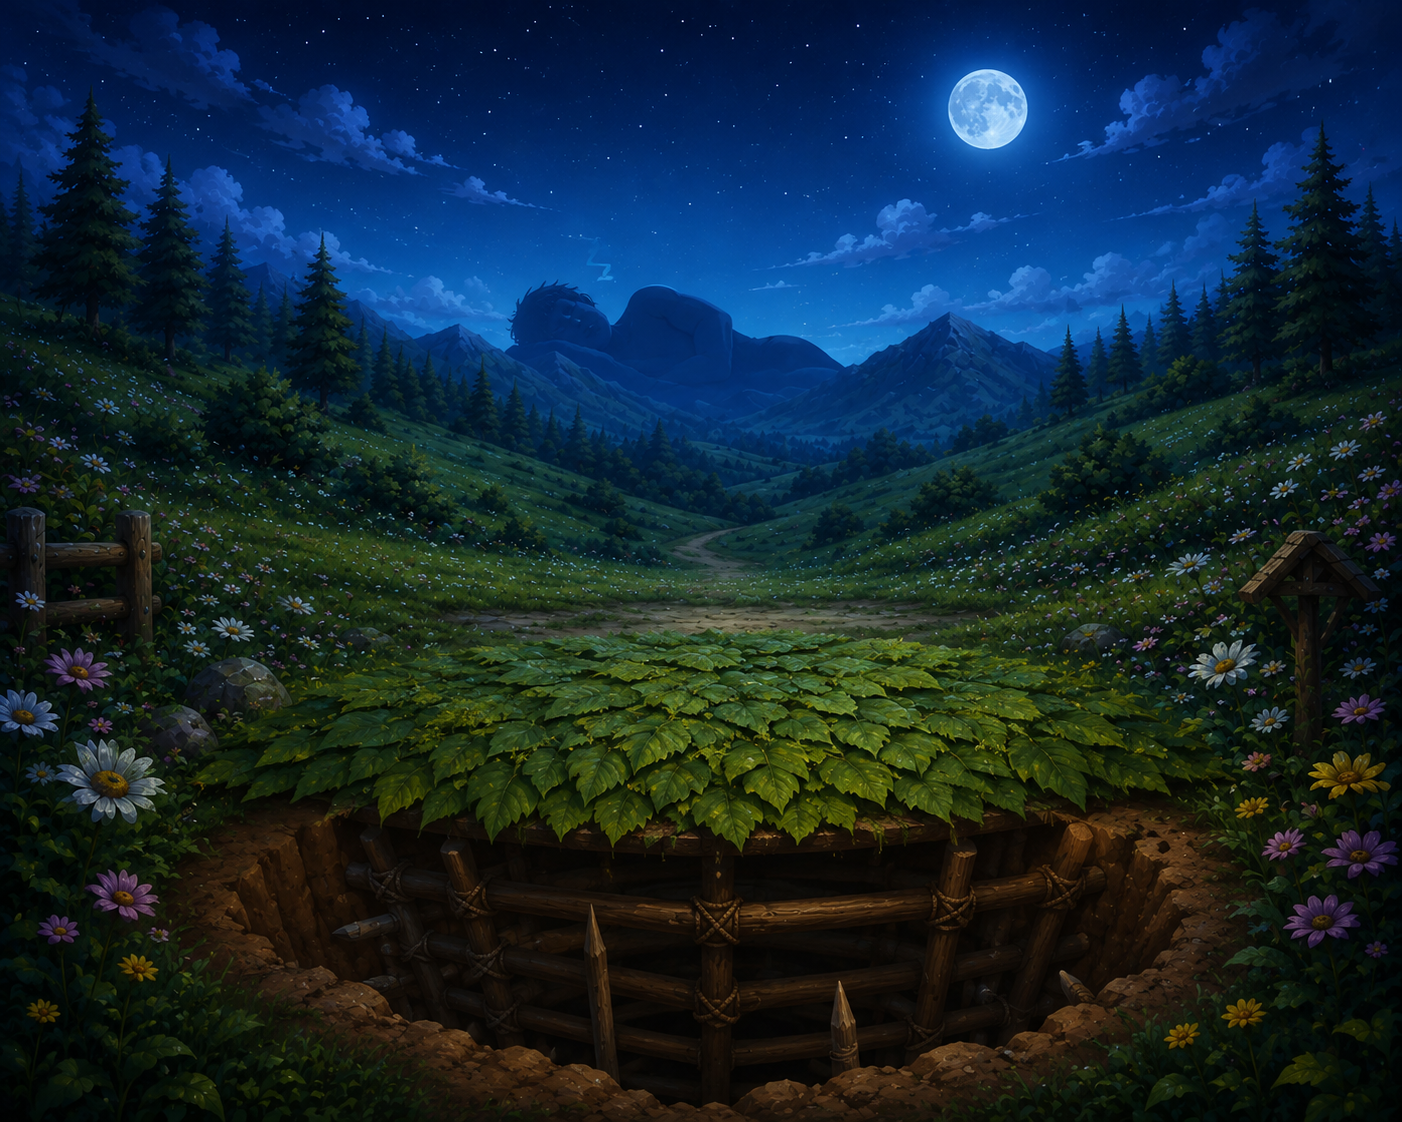
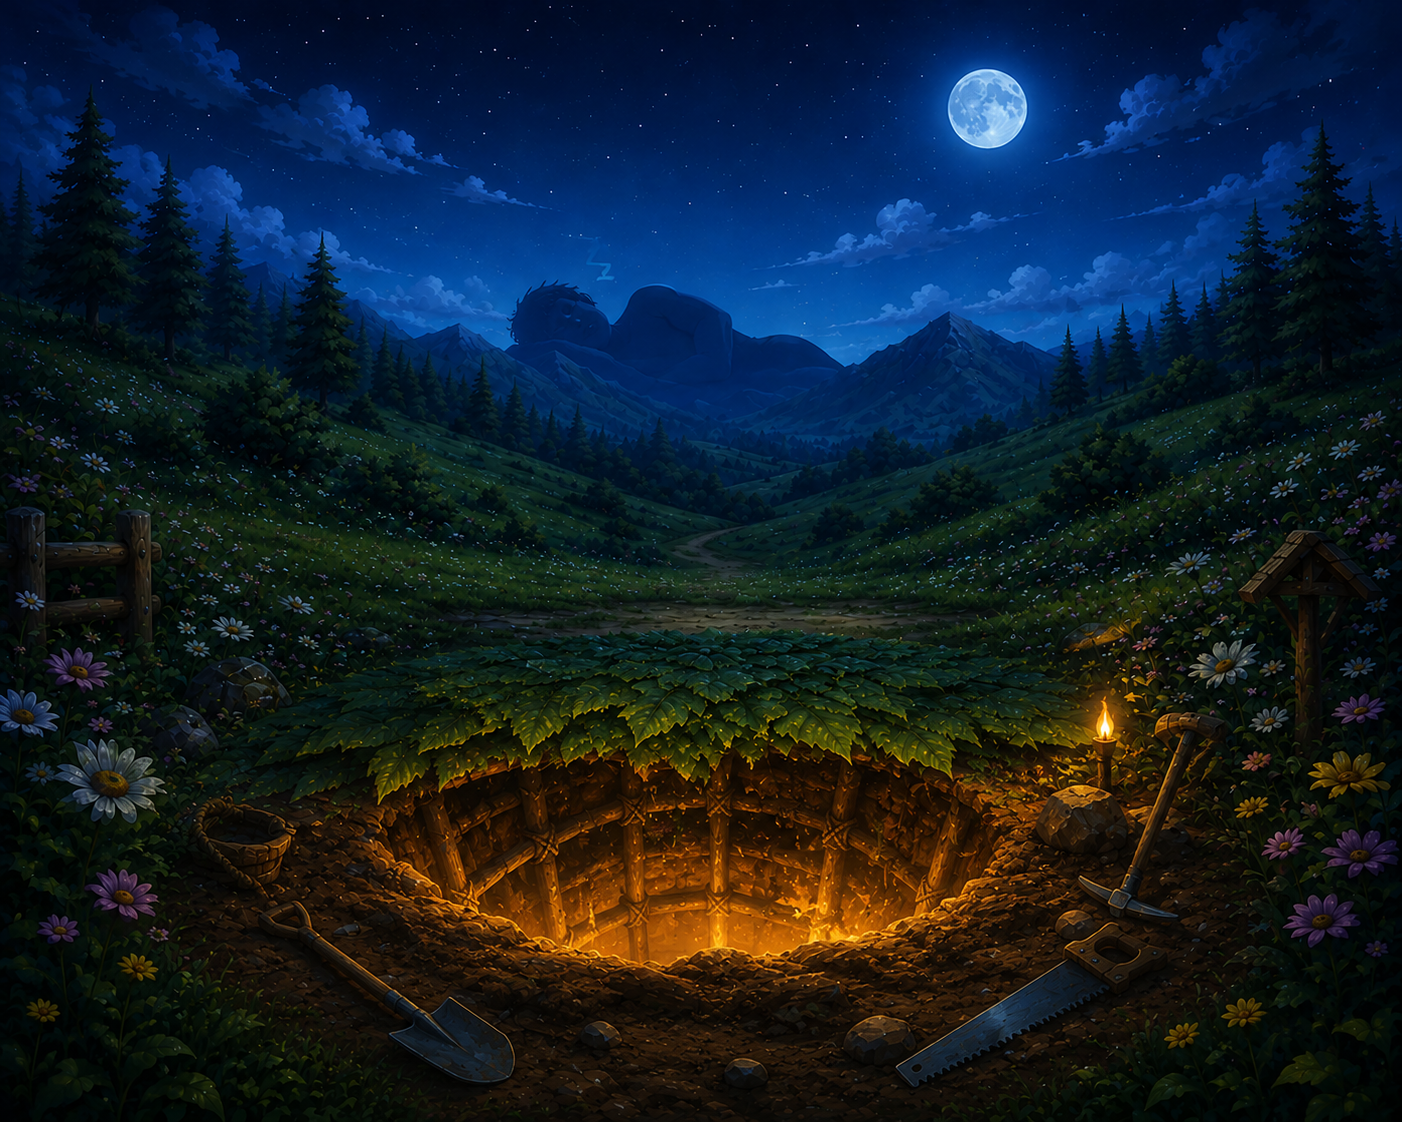
Implement bonus hole light effects and associated assets
- Added new shader effects for the bonus hole light, enhancing visual feedback during bonus rounds.
- Introduced methods in `GameScene` to manage the layout and visibility of the bonus hole light effects.
- Updated `queueGameSceneAssets` to include new textures and shaders for the bonus hole light.
- Modified `README-CLIENT.md` to describe the new lighting effects and their impact on gameplay experience.
- Removed outdated background assets and added new ones to support the updated visual design.

diff --git a/src/game-client/GameScene.js b/src/game-client/GameScene.js
@@ -38,6 +38,8 @@ const BONUS_INTRO_SCALE = 1.06;
 const BONUS_INTRO_DRIFT_X = 22;
 const BONUS_INTRO_DRIFT_Y = -18;
 const BONUS_INTRO_HOLD_MS = 1500;
+const BONUS_HOLE_LIGHT_CENTER_OFFSET_X = 0;
+const BONUS_HOLE_LIGHT_CENTER_OFFSET_Y = 68;
 const BONUS_INTRO_SPARKLES = [
   { x: -214, y: 20, radius: 8, color: 0xffcc73 },
   { x: -126, y: 50, radius: 6, color: 0x7dd3fc },
@@ -212,6 +214,10 @@ export class GameScene extends Phaser.Scene {
     this.bonusIntroSunGlow = null;
     this.bonusIntroBlueprintGlow = null;
     this.bonusIntroSparkles = [];
+    this.bonusHoleLightShader = null;
+    this.bonusHoleLightFadeState = { value: 0 };
+    this.bonusHoleLightPulseState = { value: 0 };
+    this.bonusHoleLightPulseTween = null;
     this.bonusUi = [];
     this.lifeSegments = [];
     this.trapPowerText = null;
@@ -251,6 +257,7 @@ export class GameScene extends Phaser.Scene {
     this.unsubscribeLayout?.();
     this.unsubscribeLayoutDebug?.();
     this.cancelSkippablePresentationWaits();
+    this.stopBonusHoleLightFlicker();
     this.finishActiveTweens();
   }
 
@@ -274,6 +281,7 @@ export class GameScene extends Phaser.Scene {
       this.layoutBackgroundImage(image);
     });
     this.layoutBackgroundImage(this.ouchBackground, OUCH_BACKGROUND_SCALE);
+    this.createBonusHoleLightFx();
     this.createBonusIntroScene();
     this.reelFrame = this.add.image(x, y, "reel_frame").setDepth(DEPTH.board);
     const reelFrameSource = this.reelFrame.texture.getSourceImage?.();
@@ -873,6 +881,7 @@ export class GameScene extends Phaser.Scene {
       this.layoutTotalWinTexts();
     }
     this.layoutBonusIntroScene();
+    this.layoutBonusHoleLightFx();
   }
 
   getTotalWinTextLayout() {
@@ -931,6 +940,128 @@ export class GameScene extends Phaser.Scene {
     });
   }
 
+  getBonusHoleLightLayout() {
+    const centerX = GRID_OFFSET_X + GRID_WIDTH_PX / 2 + BONUS_HOLE_LIGHT_CENTER_OFFSET_X;
+    const centerY = GRID_OFFSET_Y + GRID_HEIGHT_PX + BONUS_HOLE_LIGHT_CENTER_OFFSET_Y;
+    const background = this.bonusBackground;
+    const displayWidth = Math.max(1, background?.displayWidth || (background?.width * background?.scaleX) || 1);
+    const displayHeight = Math.max(1, background?.displayHeight || (background?.height * background?.scaleY) || 1);
+    const left = (background?.x || centerX) - displayWidth / 2;
+    const top = (background?.y || centerY) - displayHeight / 2;
+    return {
+      centerX,
+      centerY,
+      uvX: Phaser.Math.Clamp((centerX - left) / displayWidth, 0.0, 1.0),
+      uvY: Phaser.Math.Clamp(1 - ((centerY - top) / displayHeight), 0.0, 1.0),
+    };
+  }
+
+  createBonusHoleLightFx() {
+    if (!this.add.shader || !this.cache?.shader?.has?.("bonus_hole_light")) return;
+    const frame = this.textures.getFrame("bonus_background");
+    if (!frame?.width || !frame?.height) return;
+    const shader = this.add.shader(
+      "bonus_hole_light",
+      this.bonusBackground.x,
+      this.bonusBackground.y,
+      frame.width,
+      frame.height,
+      ["bonus_torch_height", "bonus_torch_normal"],
+      { repeat: false }
+    );
+    shader
+      .setDepth(DEPTH.background + 0.5)
+      .setVisible(false);
+    this.bonusHoleLightShader = shader;
+    this.layoutBonusHoleLightFx();
+    this.resetBonusHoleLightFx();
+  }
+
+  layoutBonusHoleLightFx() {
+    if (!this.bonusHoleLightShader) return;
+    const layout = this.getBonusHoleLightLayout();
+    this.bonusHoleLightShader
+      .setPosition(this.bonusBackground.x, this.bonusBackground.y)
+      .setScale(this.bonusBackground.scaleX, this.bonusBackground.scaleY)
+      .setUniform("lightPos.value.x", layout.uvX)
+      .setUniform("lightPos.value.y", layout.uvY);
+  }
+
+  resetBonusHoleLightFx() {
+    this.bonusHoleLightFadeState.value = 0;
+    this.bonusHoleLightPulseState.value = 0;
+    if (!this.bonusHoleLightShader) return;
+    this.bonusHoleLightShader
+      .setUniform("sceneAlpha.value", 0)
+      .setUniform("flare.value", 0);
+  }
+
+  startBonusHoleLightFlicker() {
+    this.layoutBonusHoleLightFx();
+  }
+
+  stopBonusHoleLightFlicker() {
+    this.bonusHoleLightPulseTween?.remove?.();
+    this.bonusHoleLightPulseTween = null;
+    this.bonusHoleLightPulseState.value = 0;
+    this.bonusHoleLightShader?.setUniform("flare.value", 0);
+  }
+
+  setBonusHoleLightVisible(visible, { duration = 0 } = {}) {
+    if (!this.bonusHoleLightShader) return Promise.resolve();
+    if (visible) {
+      this.layoutBonusHoleLightFx();
+      this.bonusHoleLightShader.setVisible(true);
+      this.startBonusHoleLightFlicker();
+    } else {
+      this.stopBonusHoleLightFlicker();
+    }
+    const targetValue = visible ? 1 : 0;
+    if (!duration || !this.tweens) {
+      this.bonusHoleLightFadeState.value = targetValue;
+      this.bonusHoleLightShader
+        .setUniform("sceneAlpha.value", targetValue)
+        .setVisible(visible);
+      return Promise.resolve();
+    }
+    return this.tweenPromise({
+      targets: this.bonusHoleLightFadeState,
+      value: targetValue,
+      duration,
+      ease: "Quad.easeInOut",
+      onUpdate: () => {
+        this.bonusHoleLightShader?.setUniform("sceneAlpha.value", this.bonusHoleLightFadeState.value);
+      },
+      onComplete: () => {
+        this.bonusHoleLightShader?.setUniform("sceneAlpha.value", this.bonusHoleLightFadeState.value);
+        if (!visible) this.bonusHoleLightShader?.setVisible(false);
+      },
+    });
+  }
+
+  pulseBonusHoleLight({ strength = 1 } = {}) {
+    if (!this.bonusHoleLightShader?.visible || !this.tweens) return;
+    const normalizedStrength = Phaser.Math.Clamp(Number(strength) || 1, 0.65, 1.65);
+    this.bonusHoleLightPulseTween?.remove?.();
+    this.bonusHoleLightPulseState.value = 0;
+    this.bonusHoleLightShader.setUniform("flare.value", 0);
+    this.bonusHoleLightPulseTween = this.tweens.add({
+      targets: this.bonusHoleLightPulseState,
+      value: normalizedStrength,
+      duration: 180,
+      yoyo: true,
+      ease: "Sine.easeOut",
+      onUpdate: () => {
+        this.bonusHoleLightShader?.setUniform("flare.value", this.bonusHoleLightPulseState.value);
+      },
+      onComplete: () => {
+        this.bonusHoleLightPulseState.value = 0;
+        this.bonusHoleLightShader?.setUniform("flare.value", 0);
+        this.bonusHoleLightPulseTween = null;
+      },
+    });
+  }
+
   resetBonusIntroScene() {
     if (!this.bonusIntroImage) return;
     this.layoutBonusIntroScene();
@@ -960,6 +1091,7 @@ export class GameScene extends Phaser.Scene {
       await Promise.all([
         this.tweenPromise({ targets: this.background, alpha: 0, duration: 450 }),
         this.tweenPromise({ targets: this.bonusBackground, alpha: 1, duration: 450 }),
+        this.setBonusHoleLightVisible(true, { duration: 450 }),
         this.fadeMainGameSymbols(0, 450),
       ]);
       return;
@@ -1032,6 +1164,7 @@ export class GameScene extends Phaser.Scene {
     await Promise.all([
       this.tweenPromise({ targets: this.background, alpha: 0, duration: 420, ease: "Quad.easeInOut" }),
       this.tweenPromise({ targets: this.bonusBackground, alpha: 1, duration: 460, ease: "Quad.easeInOut" }),
+      this.setBonusHoleLightVisible(true, { duration: 460 }),
       this.tweenPromise({ targets: this.reelFrame, alpha: 1, duration: 420, ease: "Quad.easeInOut" }),
       this.tweenPromise({ targets: introImage, alpha: 0, duration: 380, ease: "Quad.easeInOut" }),
       this.tweenPromise({ targets: introFxTargets, alpha: 0, duration: 340, ease: "Quad.easeInOut" }),
@@ -4107,6 +4240,7 @@ export class GameScene extends Phaser.Scene {
       },
       onComplete: () => clone.destroy(),
     });
+    this.pulseBonusHoleLight({ strength: 1.25 });
     await this.createCartoonDustCloud(anchor.x, anchor.y, { big: true });
     await this.presentTrapPowerIncrease(landing);
   }
@@ -4151,6 +4285,7 @@ export class GameScene extends Phaser.Scene {
       },
       onComplete: () => sprite.setVisible(false),
     });
+    this.pulseBonusHoleLight({ strength: 1 });
     await this.createCartoonDustCloud(anchor.x, anchor.y);
   }
 
@@ -4407,6 +4542,7 @@ export class GameScene extends Phaser.Scene {
     await this.slideOutOldSymbols();
     await Promise.all([
       this.tweenPromise({ targets: this.bonusBackground, alpha: 0, duration: 450 }),
+      this.setBonusHoleLightVisible(false, { duration: 450 }),
       this.tweenPromise({ targets: this.ouchBackground, alpha: 1, duration: 450 }),
     ]);
     await this.presentOuchFakeSpin();
@@ -4433,6 +4569,7 @@ export class GameScene extends Phaser.Scene {
     await Promise.all([
       this.tweenPromise({ targets: this.background, alpha: 1, duration: 300 }),
       this.tweenPromise({ targets: this.bonusBackground, alpha: 0, duration: 300 }),
+      this.setBonusHoleLightVisible(false, { duration: 300 }),
       this.tweenPromise({ targets: this.ouchBackground, alpha: 0, duration: 300 }),
       this.tweenPromise({ targets: this.totalWinBackground, alpha: 0, duration: 300 }),
       this.tweenPromise({ targets: this.reelFrame, alpha: 1, duration: 300 }),

diff --git a/src/game-client/queueGameSceneAssets.js b/src/game-client/queueGameSceneAssets.js
@@ -64,8 +64,11 @@ export function queueGameSceneAssets(load, _deps = {}) {
   load.image("crush_giant_bg", "assets/giantstomp/giant_in_bg.png");
   load.image("reel_frame", "assets/giantstomp/reel_frame.png");
   load.image("bonus_background", "assets/giantstomp/background_bonus.png");
+  load.image("bonus_torch_height", "assets/giantstomp/bonus_torch_effect/background_bonus_height.png");
+  load.image("bonus_torch_normal", "assets/giantstomp/bonus_torch_effect/background_bonus_normal_opengl.png");
   load.image("ouch_background", "assets/giantstomp/ouch_background.png");
   load.image("total_win_background", "assets/giantstomp/stompy_background_totalwin.png");
+  load.glsl("bonus_hole_light", "assets/shaders/bonus_hole_light.glsl");
 
   load.audio("action_spin_click", "assets/sounds/action_spin_click.opus");
   load.audio("wins_highlight", "assets/sounds/wins_highlight.opus");

diff --git a/src/game-client/README-CLIENT.md b/src/game-client/README-CLIENT.md
@@ -46,6 +46,8 @@ meter built from `life1`/`life2`/`life3`, large collectors for `666`/`777`/`888`
 an uncapped trap-power readout whose text heats from green through yellow to red, and
 a green/yellow/red segmented Multiplier whose segment count follows the server
 damage-wheel values.
+The hole area now renders through a depth and normal driven shader pass so the pit feels
+lit from below with warmer spill, beam haze, and sharper rim response during the bonus.
 
 A bonus spin darkens the spent life segment up front, so the meter never spoils the
 outcome. The first presented landing relights the meter to full and the flow waits for
